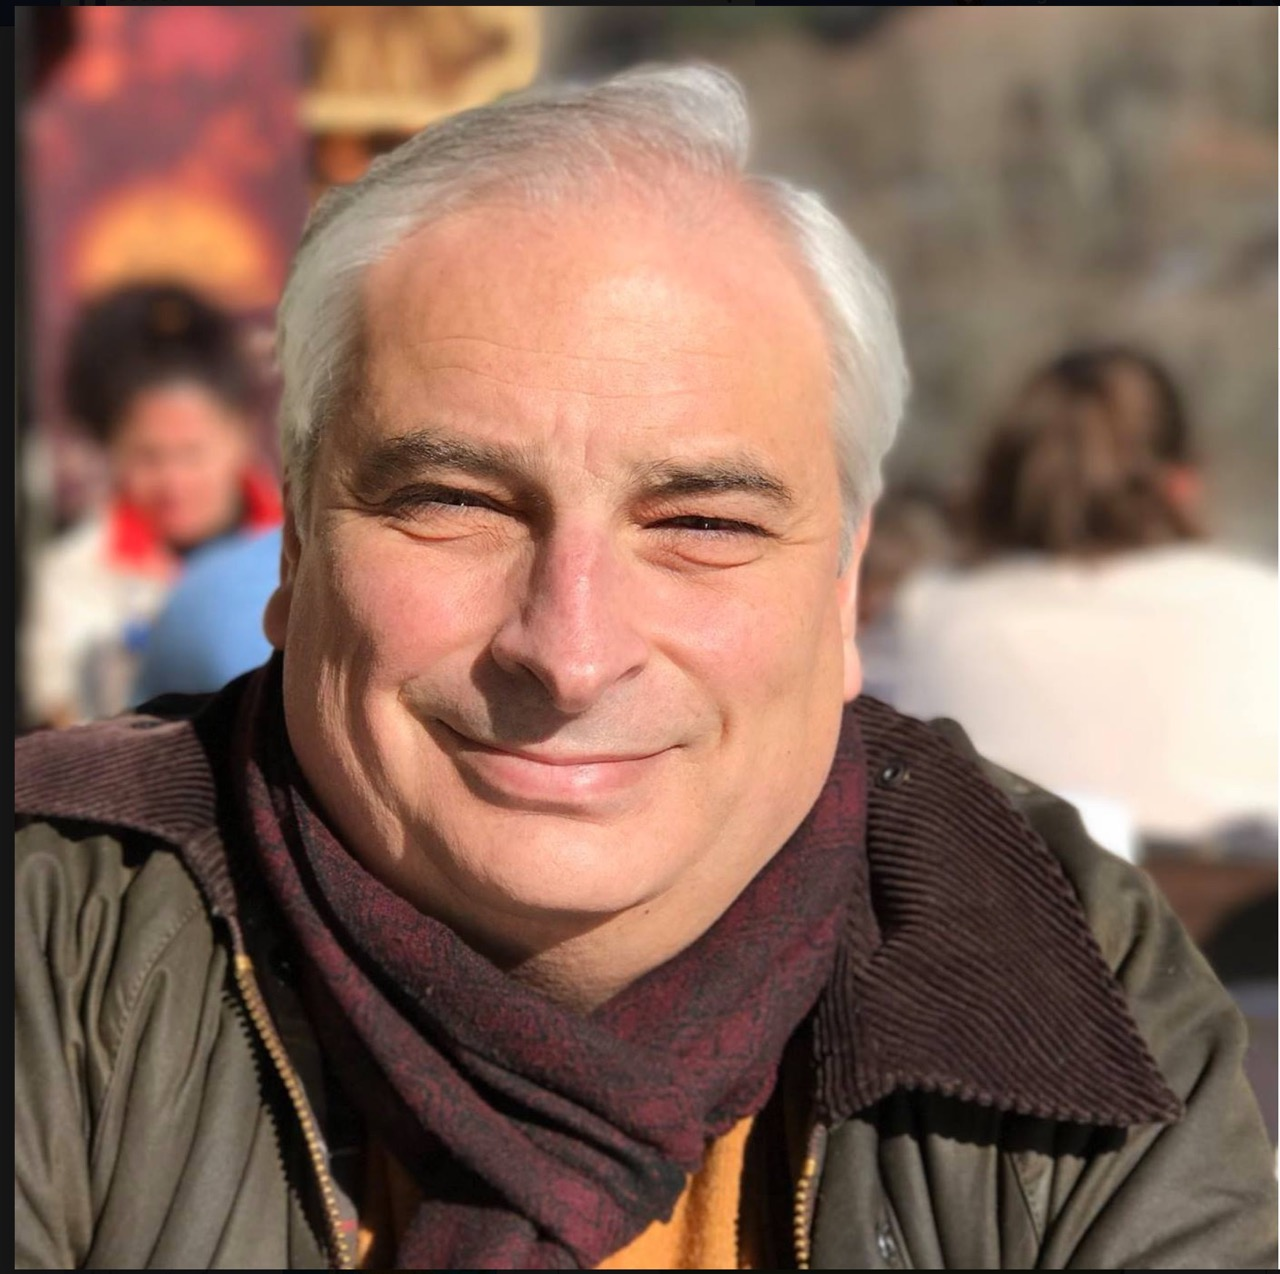
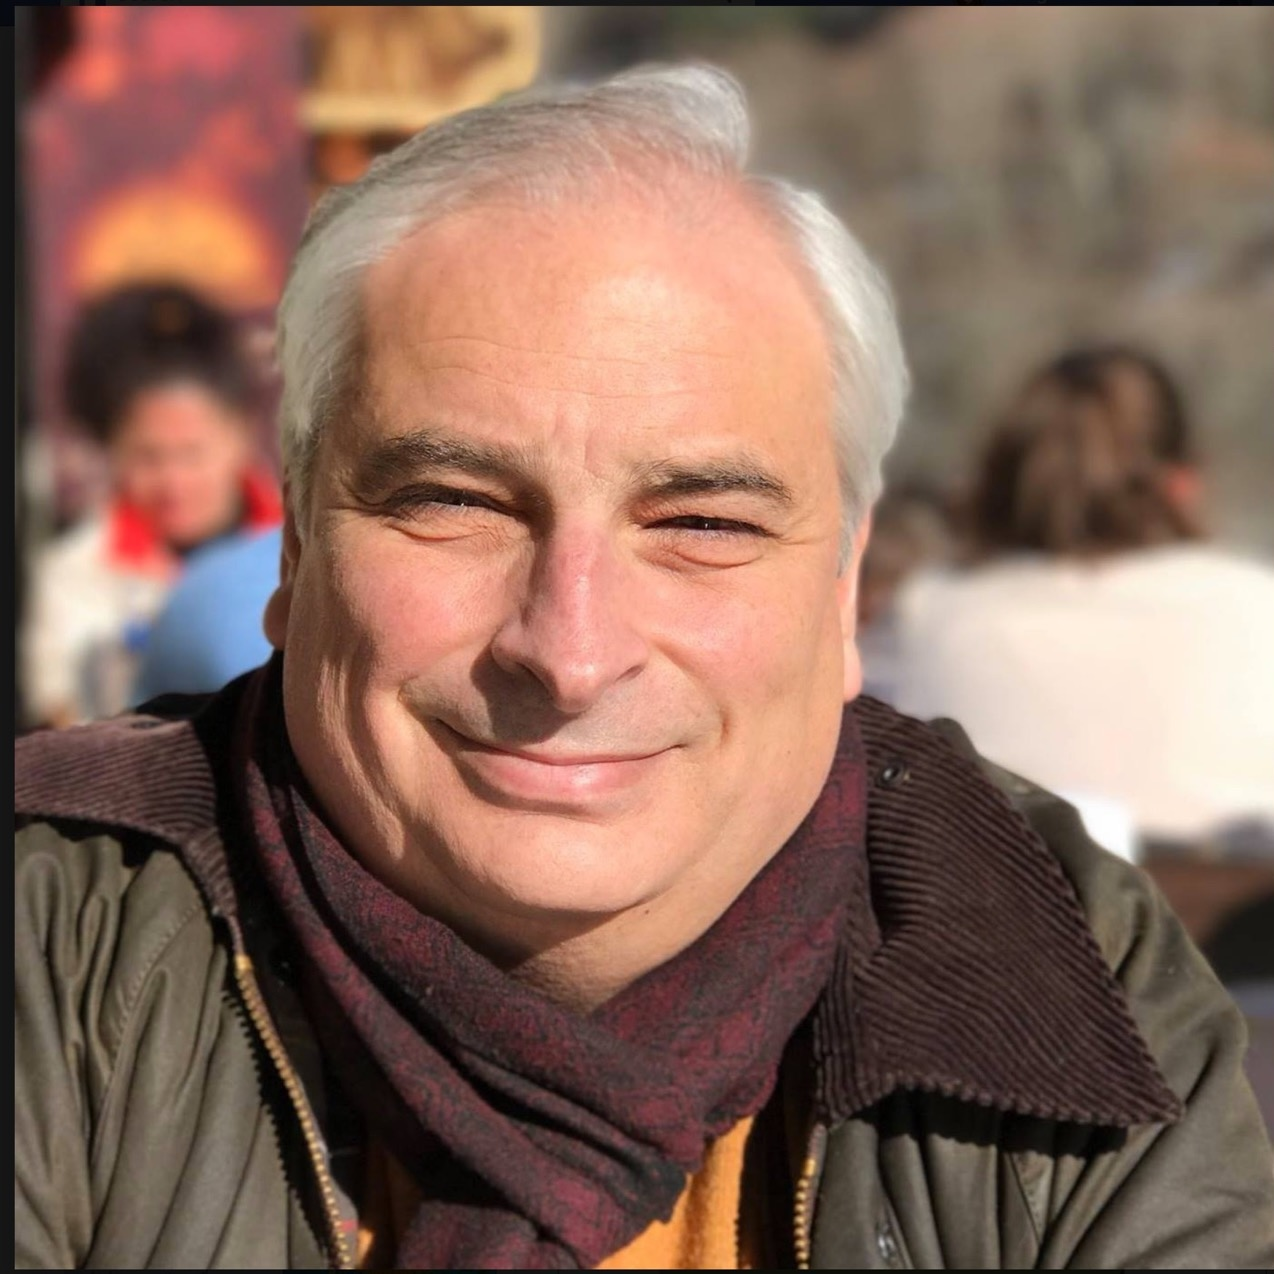
Add more spekaers

diff --git a/Sources/Conference/Models/Speaker.swift b/Sources/Conference/Models/Speaker.swift
@@ -197,13 +197,13 @@ struct AllSpeakers {
             bio: "I am 22 years old, from Chicago, IL. and have been programming since I was 11 years old. My app, SongShift, has been on the App Store since 2016 and I have watched and contributed to growing it from a small app to one that is widely used and loved. During college I did 2 internships at Apple but decided to work on SongShift full time. This is entirely built with server-side Swift. I want people to know about me because I want to continue to spread the word that what I do is powered by these cool server-side Swift technologies. I want to know that I am someone people can contact and I want to be a friendly face for them.",
             talkIDs: [9]
         ),
-        // Speaker(
-        //     name: "Mona Dierickx", 
-        //     role: "Applied Informatics graduate", 
-        //     website: "https://www.linkedin.com/in/mona-dierickx/",
-        //     bio: "Hi there! I am Mona, a recent Applied Informatics graduate who is passionate about the possible ways to apply AI to solve real-life problems.",
-        //     talkIDs: [1]
-        // ),
+        Speaker(
+            name: "Mona Dierickx", 
+            role: "Applied Informatics graduate", 
+            website: "https://www.linkedin.com/in/mona-dierickx/",
+            bio: "Hi there! I am Mona, a recent Applied Informatics graduate who is passionate about the possible ways to apply AI to solve real-life problems.",
+            talkIDs: [1]
+        ),
         Speaker(
             name: "Georg Tuparev", 
             role: "Founder",
@@ -243,7 +243,8 @@ struct AllSpeakers {
                 Paragraph("Outside of coding, I love being active and playing music!")
             },
             talkIDs: [13]
-        )
+        ),
+        Speaker(name: "Eric Ernst", role: "Software Engineering Leader", company: "Apple", image: "/App/Images/speakers/eric-ernst.png", twitter: "http://twitter.com/egernst", bio: "Eric Ernst is a software engineering leader at Apple, where he focuses on virtualization, containers, container runtimes and Kubernetes.", talkIDs: [14])
     ]
 }
 

diff --git a/Sources/Conference/Models/Talk.swift b/Sources/Conference/Models/Talk.swift
@@ -197,6 +197,24 @@ struct AllTalks {
             },
             speakerNames: ["Mads Odgaard"],
             order: 13   
+        ),
+        Talk(
+            id: 14, 
+            title: "Beyond Web Services: Swift for Low-Level Container infrastructure", 
+            description: ComponentGroup {
+                Paragraph("With the Containerization and Container open source projects that Apple launched in June, we have shown that Swift is a compelling choice for systems-level infrastructure, expanding beyond its traditional application development roots. In this talk, we’ll dive into our newly released container runtime project built entirely in Swift, exploring why we chose Swift and what we learned along the way")
+                Paragraph("We’ll cover:")
+                List {
+                    ListItem("Overview of Containerization")
+                    ListItem("Core goals and design principles that drove our architectural decisions")
+                    ListItem("Key Swift packages we created to facilitate a container runtime")
+                    ListItem("Using Swift for systems development")
+                    ListItem("Our experience as a team learning Swift and using it for low-level systems programming.")
+                }
+                Paragraph("This talk will demonstrate that Swift’s reach extends far beyond iOS apps and web services—it’s a viable, powerful choice for the most demanding systems programming tasks.")
+            }, 
+            speakerNames: ["Eric Ernst"], 
+            order: 14
         )
     ]
 }

diff --git a/Sources/Conference/Components/Schedule.swift b/Sources/Conference/Components/Schedule.swift
@@ -121,7 +121,7 @@ struct Schedule: Component {
                                            }
                                            TableRow {
                                                TableCell("14:15 - 14:30").class("text-center font-weight-bold")
-                                               createTalkRow(speakerName: "AMona Dierickx")
+                                               createTalkRow(speakerName: "Mona Dierickx")
                                            }
                                            TableRow {
                                                TableCell("14:30 - 14:45").class("text-center font-weight-bold")
@@ -137,7 +137,7 @@ struct Schedule: Component {
                                            }     
                                            TableRow {
                                                TableCell("15:45 - 16:00").class("text-center font-weight-bold")
-                                               createTalkRow(speakerName: "Lightning 1 - Mads")
+                                               createTalkRow(speakerName: "Mads Odgaard")
                                            }
                                            TableRow {
                                                TableCell("16:00 - 16:15").class("text-center font-weight-bold")
